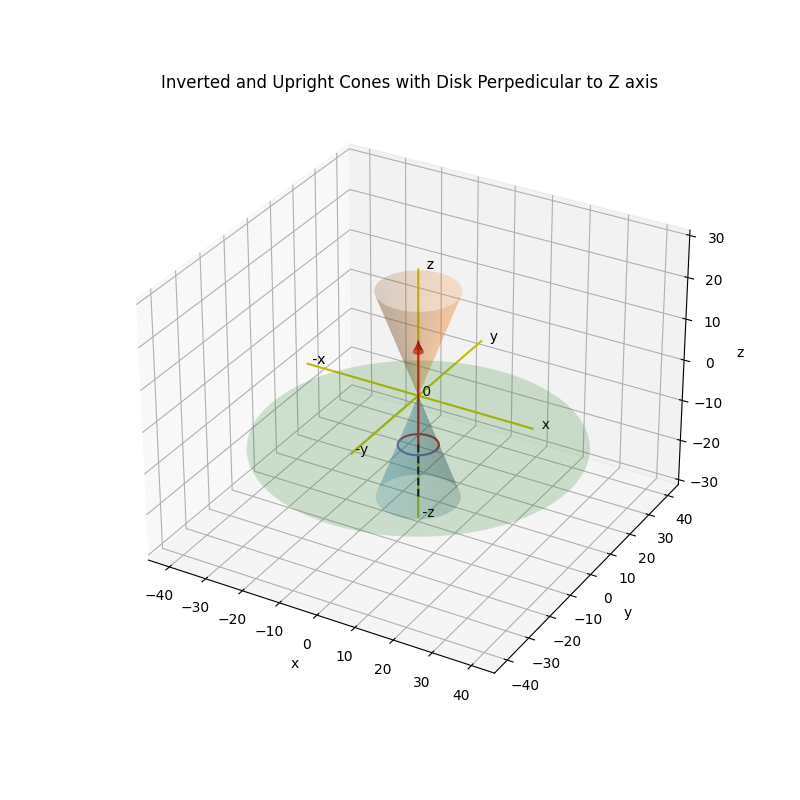
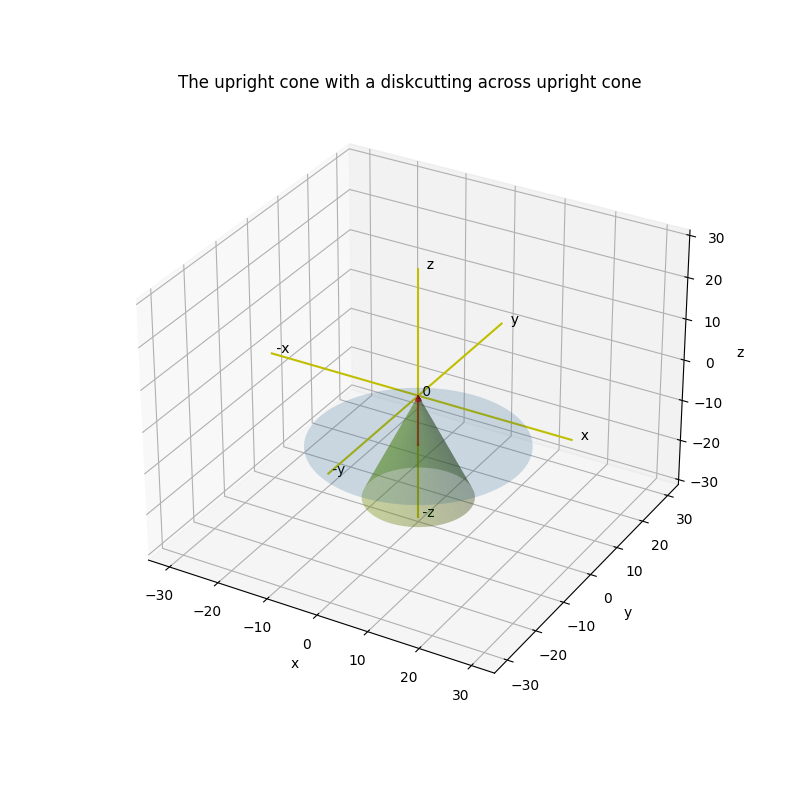
update

diff --git a/Midterms/Midterms/Exercise_03.py b/Midterms/Midterms/Exercise_03.py
@@ -9,87 +9,138 @@ Midterm Exercise #1
 
 """
 #insert libraries
-from madLib.amrVector import *
-from madLib.amrPlot import *
+from madLib.madVector import *
+from madLib.madPlot import *
 from Data.variables import *
 
 
 #define the figure
-Fig3=Space3D(title="Figure 04",sz=(8,8)) 
-Fig3.ax=axes(projection='3d')
+Fig3=Space3D(title="Figure 03",sz=(8,8));"Disk cut on upright cone."
+Fig3.ax=axes(projection='3d');"Plot axes handler."
 
-Fig3.Labels(" The locus intersection of the upright plane and the disk. ")
+Fig3.Labels("The upright cone with a disk cutting across upright cone")
 Fig3.ShowAxes(30)
 
-#defining the values
-nbase=10
-nheight=25
-nTanHalfDelta=nbase/nheight
+"Values of the Cone"
+Base=15
+Height=25
+nTanHalfDelta=Base/Height
 delta=2*aTan(nTanHalfDelta)
 res=100
 
-#The cone equation
-ec2=ec1.subs(u,z).subs(base,nbase).subs(height,nheight).simplify()
+
+"The cone equation in Cartesian Coordinate System"
+ec2=ec1.subs(u,z).subs(base,Base).subs(height,Height).simplify()
+
+"The cylindrical axes ."
+lnphi = linspace(0,2*npi,res);"One revolution."
+lnrho = linspace(0,Base,res);"From center to perimeter of the base."
+lnz1  = linspace(0,-Height,res);"Bottom cone from center to negative height."
 
 
-lnphi = linspace(0,2*npi,res)
-lnrho = linspace(0,nbase,res)
-lnz1  = linspace(0,-nheight,res)
+ncx=outer(cos(lnphi),lnrho); "Catersian meshgrid with cylindrical geometric equivalent cos(lnphi) and lnrho." 
+ncy=outer(sin(lnphi),lnrho); "Cartesian meshgrid with cylindrical geometric equivalent sin(lnphi) and lnrho."
+ncz1=outer(ones(res),lnz1);  "ncz1 is a Catersian meshgrid with cylindrical equivalent z for bottom cone."
 
-ncx=outer(cos(lnphi),lnrho)
-ncy=outer(sin(lnphi),lnrho)
-ncz=outer(ones(res),lnz1)
-Fig3.ax.plot_surface(ncx,ncy,ncz,alpha=.4)
-
-#position of circular disk
-nHCut=-12
-nsvcTip=array([0,0,nheight])
-nrhoCut=(nheight-nHCut)*nTanHalfDelta
-nsvcTail=array([nrhoCut,0,nHCut])
-nsvc=nsvcTip-nsvcTail
-nloc=array([0,0,nHCut])
-
-Fig3.PlotVector(nloc,nsvc,color=(1,0,0),base=.5)
-ndisk=Fig3.GenDisk(nbase*4)
-nrotDisk = Fig3.QuaternionRotate( ndisk, nloc, nsvc)
-nmovDisk= Fig3.Move(nrotDisk,nloc)
-Fig3.ax.plot_surface(nmovDisk[0],nmovDisk[1],nmovDisk[2],alpha=.4)
+"Plotting of the  cone "
+Fig3.ax.plot_surface(ncx,ncy,ncz1,color=(1,0,0),alpha=.2)
+Fig3.ax.plot_surface(ncx,ncy,ncz1,color=(0,1,0),alpha=.2)
 
 
-ecx1=Eq(x,base*z/height*Cos(phi))
-ecy1=Eq(y,base*z/height*Sin(phi))
-ecz1=Eq(z,z)
-ec4=Eq(x**2+y**2,(ecx1.rhs**2+ecy1.rhs**2).simplify())
-ec5=ec4.subs(base,nbase).subs(height,nheight)
-ec6=Eq(rho**2,ec5.rhs)
+"Plotting of the  cone "
+Fig3.ax.plot_surface(ncx,ncy,ncz1,color=(1,0,0),alpha=.2)
+Fig3.ax.plot_surface(ncx,ncy,ncz1,color=(0,1,0),alpha=.2)
 
 
-unsvc=Fig3.UnitVector(nsvc)
-nuAcart=unsvc[0]
-nuBcart=unsvc[1]
-nuCcart=unsvc[2]
-nuKcart=dot(unsvc,nloc)
-plnCart=Eq(nuAcart*x+nuBcart*y+nuCcart*z,nuKcart)
+"Equation of a cylindrical circular plane perpendicular to cone height axis."
+cDisk=Eq(A*phi+B*rho+C*z,K)
+vDiskCoeff=Matrix([A,B,C]);"The [A,B,C] is a vector from origin perpendicular to the disk."
 
-sdx=solve(plnCart,x)[0]
+mVecDiskCoeff=Sqrt(A**2+B**2+C**2);"Magnitude of [A,B,C] vector"
+uVecDiskCoeff=vDiskCoeff/mVecDiskCoeff;"[A,B,C] unit vector"
+Diskxyz=Matrix([x,y,z]);"[x,y,z] is a vector from origin to any point in the disk."
 
-sdy2=solve(ec5,y**2)[0].subs(x,sdx)
-sdzroots=list(roots(sdy2).keys())
+e1VecDisk=Eq(Matrix(dot(Diskxyz.transpose(),vDiskCoeff)),k,evaluate=False);"The dot produc of [x,y,z] and [A,B,C] where $\\theta$ is the angle between them."
+e2VecDisk=Eq(Matrix(dot(Diskxyz.transpose(),uVecDiskCoeff)),k/mVecDiskCoeff,evaluate=False);"The projection of [x,y,z] on [A,B,C] that gives the shortest distance from origin \
+to the disk. The shortest distance is k/Mag([A,B,C])."
 
-niz=linspace(float(sdzroots[0]),float(sdzroots[1]),res)
-sdy2.subs(z,niz[0])
-sdy2.subs(z,niz[res-1])
+"The disk is perpendicular to z axis and located at z=-12. Hence the disk \
+equation is expressed as follows."
+nADisk=0;nBDisk=0;nCDisk=1;nKDisk=-12
 
-ndyn=[];ndyp=[];ndx=[]
+
+e1CylDisk=cDisk.subs(A,nADisk).subs(B,nBDisk).subs(C,nCDisk).subs(K,nKDisk)
+
+CaCyD[phi]
+CaCyD[rho]
+
+
+sVecDiskTip=array([0,0,0]);"Coordinate of the tip of nVecDiskCoeff"
+sVecDiskTail=array([0,0,nKDisk]);"Coordinate of the tail of nVecDiskCoeff"
+sVecDisk=sVecDiskTip-sVecDiskTail;"[0,0,nKDisk] vector"
+nloc=array([0,0,nKDisk]);"Location of the disk."
+Fig3.PlotVector(nloc,sVecDisk,color=(1,0,0),base=.5)
+
+
+"The plot algorithm is based on the cylindrical equation of disk. "
+
+"Since the disk is a surface plot, the independent variables were chosen as $\\phi$ \
+and $\\rho$ as follows. The dependent varialbe is a constant. Hence z=-12."
+
+nLphi = linspace(0,2*npi,res);"From zero to one complete revolution"
+nLrho = linspace(0,Base*2,res);"Trom zero to  radius of the disk"
+nLz   = ones(res)*nKDisk;"Constant z=12 for all res data."
+
+mCarx=outer(cos(lnphi),nLrho);"Equivalent Cartesian x meshgrid of $\\phi$ and $\\rho$."
+mCary=outer(sin(lnphi),nLrho);"Equivalent Cartesian y meshgrid of $\\phi$ and $\\rho$."
+mCarz=outer(ones(res),nLz);"Equivalent Cartesian z meshgrid of z."
+
+
+
+Fig3.ax.plot_surface(ncx,ncy,ncz1,color=(1,0,0),alpha=.2)
+Fig3.PlotVector(nloc,sVecDisk,color=(1,0,0),base=.5)
+Fig3.ax.plot_surface(mCarx,mCary,mCarz,alpha=.2)
+
+linensVecDisk=Fig3.GenLine(nloc,-sVecDisk)
+Fig3.ax.plot3D(linensVecDisk[0],linensVecDisk[1],linensVecDisk[1],color=(0,0,0),
+                linestyle="dashed")
+
+
+"The equation of disk in Cartesian coordinate system."
+eCarDisk=Eq(z,nKDisk);"zd=K"
+
+"The equation of cone in Cartesian Coordinate system."
+ec2;"f(xc,yc)=f(zc)"
+
+"Substituting zd=k in f(xc,yc)=f(zc), then f(xc,yc) = f(zd) "
+ec3=ec2.subs(z,nKDisk).evalf();"ec3 became f(xc,yc)=f(K)"
+"The value of z is constant and is equal to 12. Being a constant it is considred \
+dependent variable. Let's consider x as independent variable and y the dependent \
+variable. The range of values for x is determined as follows."
+
+sdy2=solve(ec3,y**2)[0]
+
+ec4=Eq(y**2,sdy2)
+
+sdxroots=list(roots(ec4.rhs).keys())
+
+nlineix=linspace(float(sdxroots[0]),float(sdxroots[1]),res)
+"x is the independent variable."
+
+ndyp=[];ndyn=[]
+"y is the dependent variable."
+
 for i in range(res):
-     ndyn.append(-float(Sqrt(sdy2.subs(z,niz[i]))))        
-     ndyp.append( float(Sqrt(sdy2.subs(z,niz[i]))))        
-     ndx.append(sdx.subs(z,niz[i]))
+    temp=Sqrt(sdy2.subs(x,nlineix[i]))
+    if temp.is_real:
+        ndyp.append(temp)    
+        ndyn.append(-temp)
+    else:
+        ndyp.append(0)    
+        ndyn.append(0)
+                
 
-Fig3.ax.plot3D(ndx,ndyp,niz)
-Fig3.ax.plot3D(ndx,ndyn,niz)
+Fig3.ax.plot3D(nlineix,ndyp,nLz)
+Fig3.ax.plot3D(nlineix,ndyn,nLz)
 
-
-savefig("Data/Fig3.png")             
-
- 
+savefig("Data/Fig3.png")

diff --git a/Midterms/Midterms/Exercise_04.py b/Midterms/Midterms/Exercise_04.py
@@ -14,85 +14,106 @@ from Data.variables import *
 
 
 #define the figure
-Fig4 =Space3D(title="Figure 04",sz=(8,8)) 
+Fig4=Space3D(title="Figure 04",sz=(8,8));
 Fig4.ax=axes(projection='3d')
-
-Fig4.Labels(" The intersection forms a circular  and eleptical curve lines. ")
+Fig4.Labels("The plane cuts the cone at an angle.")
 Fig4.ShowAxes(30)
 
-#defining the values
-nbase=20
-nheight=30
-nTanHalfDelta=nbase/nheight
+"Values of the Cone"
+Base=15
+Height=25
+nTanHalfDelta=Base/Height
 delta=2*aTan(nTanHalfDelta)
 res=100
 
-#The cone equation
-ec2=ec1.subs(u,z).subs(base,nbase).subs(height,nheight).simplify()
+
+"The cone equation in Cartesian Coordinate System"
+ec2=ec1.subs(u,z).subs(base,Base).subs(height,Height).simplify()
+
+"The cylindrical axes ."
+lnphi = linspace(0,2*npi,res);"One revolution."
+lnrho = linspace(0,Base,res);"From center to perimeter of the base."
+lnz1  = linspace(0,-Height,res);"Bottom cone from center to negative height."
 
 
-lnphi = linspace(0,2*npi,res)
-lnrho = linspace(0,nbase,res)
-lnz1  = linspace(0,-nheight,res)
+ncx=outer(cos(lnphi),lnrho); "Catersian meshgrid with cylindrical geometric equivalent cos(lnphi) and lnrho." 
+ncy=outer(sin(lnphi),lnrho); "Cartesian meshgrid with cylindrical geometric equivalent sin(lnphi) and lnrho."
+ncz1=outer(ones(res),lnz1);  "ncz1 is a Catersian meshgrid with cylindrical equivalent z for bottom cone."
 
-ncx=outer(cos(lnphi),lnrho)
-ncy=outer(sin(lnphi),lnrho)
-ncz=outer(ones(res),lnz1)
+"Plotting of the  cone "
+Fig4.ax.plot_surface(ncx,ncy,ncz1,color=(1,0,0),alpha=.2)
+Fig4.ax.plot_surface(ncx,ncy,ncz1,color=(0,1,0),alpha=.2)
+
+ncz=outer(ones(res),lnz1);"For Lower cone"
 Fig4.ax.plot_surface(ncx,ncy,ncz,alpha=.4)
 
-#position of circular disk
-nHCut=-12
-nsvcTip=array([0,0,nheight])
-nrhoCut=(nheight-nHCut)*nTanHalfDelta
-nsvcTail=array([nrhoCut,0,nHCut])
-nsvc=nsvcTail-nsvcTip
-nloc=array([0,0,nHCut])
 
-Fig4.PlotVector(nloc,nsvc,color=(1,0,0),base=.5)
-ndisk=Fig4.GenDisk(nbase*4)
-nrotDisk = Fig4.QuaternionRotate( ndisk, nloc, nsvc)
+nKDisk=-12
+nConeAngle=aTan(Base/Height)
+n1ConeAngle=nConeAngle*180/npi
+"let tilt angle be .25 less than "+str(nConeAngle)
+nTiltAngle=npi/2-nConeAngle*1.2
+nDiskTilt=aTan(Base/(Height+nKDisk))
+nDiskVectorTilt=npi/2-nDiskTilt
+
+
+
+nsVecTip=array([0,0,0])
+nsVecTail=array([Tan(nDiskVectorTilt)*nKDisk,0,nKDisk])
+nsVec=nsVecTip-nsVecTail
+nloc=array([0,0,nKDisk])
+
+Fig4.PlotVector(nloc,nsVec,color=(1,0,0),base=.5)
+nDisk=Fig4.GenDisk(Base*4)
+
+nrotDisk = Fig4.QuaternionRotate( nDisk, nloc, nsVec)
+
 nmovDisk= Fig4.Move(nrotDisk,nloc)
-Fig4.ax.plot_surface(nmovDisk[0],nmovDisk[1],nmovDisk[2],alpha=.4)
+Fig4.ax.plot_surface(nmovDisk[0],nmovDisk[1],nmovDisk[2],alpha=.2)
 
 
-linensvc=Fig4.GenLine(nloc,-nsvc*2)
-Fig4.ax.plot3D(linensvc[0],linensvc[1],linensvc[2],color=(0,0,0),
+linensVec=Fig4.GenLine(nloc,-nsVec*2+nloc)
+Fig4.ax.plot3D(linensVec[0],linensVec[1],linensVec[2],color=(0,0,0),
                 linestyle="dashed")
 
-ecx1=Eq(x,base*z/height*Cos(phi))
-ecy1=Eq(y,base*z/height*Sin(phi))
-ecz1=Eq(z,z)
-ec4=Eq(x**2+y**2,(ecx1.rhs**2+ecy1.rhs**2).simplify())
-ec5=ec4.subs(base,nbase).subs(height,nheight)
-ec6=Eq(rho**2,ec5.rhs)
+
+e1ConeCyl=Eq(rho,base*(z)/height);"$\\rho$=f(z)"
+
+exc=Eq(x,base*z/height*Cos(phi));"x=f(z,$\\phi$)"
+eyc=Eq(y,base*z/height*Sin(phi));"x=f(z,$\\phi$)"
+e1ConeCar=Eq(x**2+y**2,(exc.rhs**2+eyc.rhs**2).simplify());"f(x,y)=f(z)"
+e2ConeCar=e1ConeCar.subs(base,Base).subs(height,Height);
 
 
-unsvc=Fig4.UnitVector(nsvc)
-nuAcart=unsvc[0]
-nuBcart=unsvc[1]
-nuCcart=unsvc[2]
-nuKcart=dot(unsvc,nloc)
-plnCart=Eq(nuAcart*x+nuBcart*y+nuCcart*z,nuKcart)
 
-sdx=solve(plnCart,x)[0]
+"Cartesian System cone equation"
+e2ConeCyl=Eq(rho**2,e2ConeCar.rhs);"Cylindrical System cone equation "
+unsVec=Fig4.UnitVector(nsVec)
+nuAcar=unsVec[0]
+nuBcar=unsVec[1]
+nuCcar=unsVec[2]
+nuKcar=dot(unsVec,nloc)
+e1PlaneCar=Eq(nuAcar*x+nuBcar*y+nuCcar*z,nuKcar);"Cartesian system disk equation."
 
-sdy2=solve(ec5,y**2)[0].subs(x,sdx)
-sdzroots=list(roots(sdy2).keys())
-
+sdxp=solve(e1PlaneCar,x)[0]
+sdyc2=solve(e2ConeCar,y**2)[0].subs(x,sdxp).expand()
+sdzroots=list(roots(sdyc2).keys())
 niz=linspace(float(sdzroots[0]),float(sdzroots[1]),res)
-sdy2.subs(z,niz[0])
-sdy2.subs(z,niz[res-1])
 
 ndyn=[];ndyp=[];ndx=[]
 for i in range(res):
-     ndyn.append(-float(Sqrt(sdy2.subs(z,niz[i]))))        
-     ndyp.append( float(Sqrt(sdy2.subs(z,niz[i]))))        
-     ndx.append(sdx.subs(z,niz[i]))
-
+     tempc=Sqrt(sdyc2.subs(z,niz[i]))
+     if tempc.is_real:
+         ndyn.append(-float(tempc))        
+         ndyp.append( float(tempc))
+     else:
+         ndyn.append(0)
+         ndyp.append(0)
+     ndx.append(float(sdxp.subs(z,niz[i])))
+     
 Fig4.ax.plot3D(ndx,ndyp,niz)
 Fig4.ax.plot3D(ndx,ndyn,niz)
 
-
-savefig("Data/fgr04.png")             
+savefig("Data/Fig4.png")             
 
  
